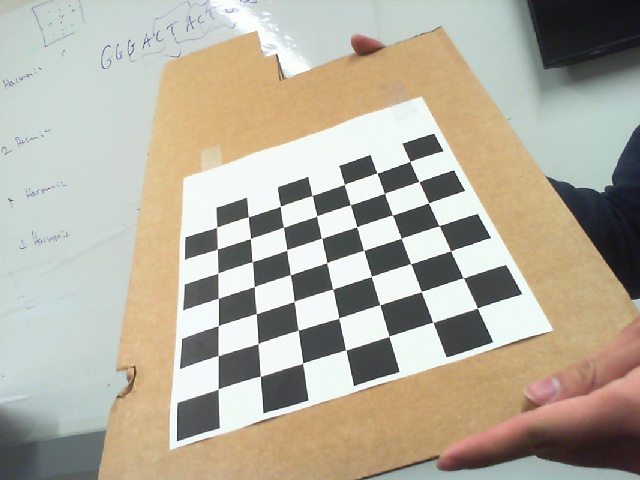
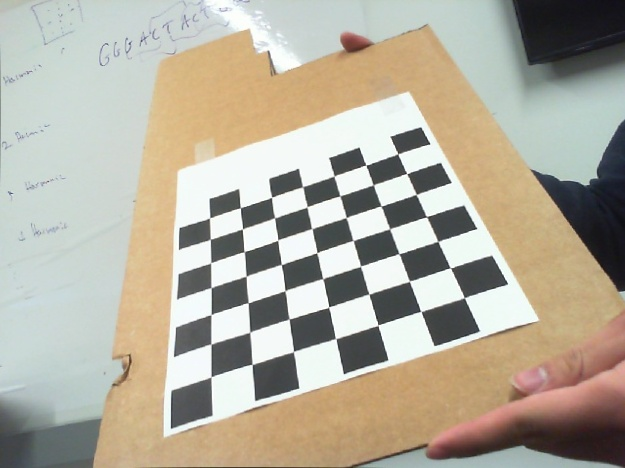
added working solvepnp sample

diff --git a/src/main/python/cv_utils/samples/calibration/calibrateCamera.py b/src/main/python/cv_utils/samples/calibration/calibrateCamera.py
@@ -3,6 +3,15 @@ import glob
 import cv2 as cv
 import numpy as np
 
+
+def draw(img, corners, imgpts):
+    corner = tuple(corners[0].ravel())
+    img = cv.line(img, corner, tuple(imgpts[0].ravel()), (255, 0, 0), 5)
+    img = cv.line(img, corner, tuple(imgpts[1].ravel()), (0, 255, 0), 5)
+    img = cv.line(img, corner, tuple(imgpts[2].ravel()), (0, 0, 255), 5)
+    return img
+
+
 # termination criteria
 criteria = (cv.TERM_CRITERIA_EPS + cv.TERM_CRITERIA_MAX_ITER, 30, 0.001)
 
@@ -13,6 +22,9 @@ objp[:, :2] = np.mgrid[0:7, 0:6].T.reshape(-1, 2)
 # Arrays to store object points and image points from all the images.
 objpoints = []  # 3d point in real world space
 imgpoints = []  # 2d points in image plane.
+
+axis = np.float32([[3, 0, 0], [0, 3, 0], [0, 0, -3]]).reshape(-1, 3)
+
 images = glob.glob('./pictures/original/*.jpg')
 
 counter = 0
@@ -20,43 +32,26 @@ counter = 0
 for fname in images:
     img = cv.imread(fname)
     gray = cv.cvtColor(img, cv.COLOR_BGR2GRAY)
-
-    # Find the chess board corners
     ret, corners = cv.findChessboardCorners(gray, (7, 6), None)
-
-    # If found, add object points, image points (after refining them)
     if ret:
         objpoints.append(objp)
         corners2 = cv.cornerSubPix(gray, corners, (11, 11), (-1, -1), criteria)
         imgpoints.append(corners)
 
-        # Draw and display the corners
-        cv.drawChessboardCorners(img, (7, 6), corners2, ret)
-        cv.imshow('img', img)
-        cv.waitKey(0)
-
-cv.destroyAllWindows()
-
-# np.savez("webcam_calibration_ouput", ret=ret, mtx=mtx, dist=dist, rvecs=rvecs, tvecs=tvecs)
+ret, mtx, dist, rvecs, tvecs = cv.calibrateCamera(objpoints, imgpoints, gray.shape[::-1], None, None)
+np.savez("calibration_matrix", ret=ret, mtx=mtx, dist=dist, rvecs=rvecs, tvecs=tvecs)
 
 for fname in images:
     orig_img = cv.imread(fname)
     gray = cv.cvtColor(orig_img, cv.COLOR_BGR2GRAY)
-    ret, mtx, dist, rvecs, tvecs = cv.calibrateCamera(objpoints, imgpoints, gray.shape[::-1], None, None)
 
     h, w, channel = orig_img.shape
     newcameramtx, roi = cv.getOptimalNewCameraMatrix(mtx, dist, (w, h), 1, (w, h))
 
-    # undistort
     dst = cv.undistort(orig_img, mtx, dist, None, newcameramtx)
-    # crop the image
     x, y, w, h = roi
     dst = dst[y:y + h, x:x + w]
 
-    cv.imwrite("{0}.jpg".format(counter), dst)
-    counter += 1
-
-    # cv.circle(orig_img, (int(w/2), int(h/2)), 7, (0, 255, 0), -1)
 
     while True:
         cv.imshow("orig", orig_img)
@@ -65,3 +60,27 @@ for fname in images:
             break
 
 cv.destroyAllWindows()
+
+"""
+for fname in glob.glob('left*.jpg'):
+    img = cv2.imread(fname)
+    gray = cv2.cvtColor(img,cv2.COLOR_BGR2GRAY)
+    ret, corners = cv2.findChessboardCorners(gray, (7,6),None)
+
+    if ret == True:
+        corners2 = cv2.cornerSubPix(gray,corners,(11,11),(-1,-1),criteria)
+
+        # Find the rotation and translation vectors.
+        rvecs, tvecs, inliers = cv2.solvePnPRansac(objp, corners2, mtx, dist)
+
+        # project 3D points to image plane
+        imgpts, jac = cv2.projectPoints(axis, rvecs, tvecs, mtx, dist)
+
+        img = draw(img,corners2,imgpts)
+        cv2.imshow('img',img)
+        k = cv2.waitKey(0) & 0xff
+        if k == 's':
+            cv2.imwrite(fname[:6]+'.png', img)
+
+cv2.destroyAllWindows()
+"""

diff --git a/src/main/python/cv_utils/samples/calibration/cubeRender.py b/src/main/python/cv_utils/samples/calibration/cubeRender.py
@@ -1,0 +1,81 @@
+import glob
+
+import cv2 as cv
+import numpy as np
+
+
+def draw(img, corners, imgpts):
+    imgpts = np.int32(imgpts).reshape(-1, 2)
+    # draw ground floor in green
+    img = cv.drawContours(img, [imgpts[:4]], -1, (0, 255, 0), -3)
+    # draw pillars in blue color
+    for i, j in zip(range(4), range(4, 8)):
+        img = cv.line(img, tuple(imgpts[i]), tuple(imgpts[j]), (255), 3)
+    # draw top layer in red color
+    img = cv.drawContours(img, [imgpts[4:]], -1, (0, 0, 255), 3)
+
+    return img
+
+
+# termination criteria
+criteria = (cv.TERM_CRITERIA_EPS + cv.TERM_CRITERIA_MAX_ITER, 30, 0.001)
+
+# prepare object points, like (0,0,0), (1,0,0), (2,0,0) ....,(6,5,0)
+objp = np.zeros((6 * 7, 3), np.float32)
+objp[:, :2] = np.mgrid[0:7, 0:6].T.reshape(-1, 2)
+
+# Arrays to store object points and image points from all the images.
+objpoints = []  # 3d point in real world space
+imgpoints = []  # 2d points in image plane.
+
+axis = np.float32([[0, 0, 0], [0, 3, 0], [3, 3, 0], [3, 0, 0], [0, 0, -3], [0, 3, -3], [3, 3, -3], [3, 0, -3]])
+
+images = glob.glob('./pictures/original/*.jpg')
+
+counter = 0
+
+for fname in images:
+    img = cv.imread(fname)
+    gray = cv.cvtColor(img, cv.COLOR_BGR2GRAY)
+    ret, corners = cv.findChessboardCorners(gray, (7, 6), None)
+    if ret:
+        objpoints.append(objp)
+        corners2 = cv.cornerSubPix(gray, corners, (11, 11), (-1, -1), criteria)
+        imgpoints.append(corners)
+
+ret, mtx, dist, rvecs, tvecs = cv.calibrateCamera(objpoints, imgpoints, gray.shape[::-1], None, None)
+np.savez("calibration_matrix", ret=ret, mtx=mtx, dist=dist, rvecs=rvecs, tvecs=tvecs)
+
+# Load previously saved data
+with np.load('calibration_matrix.npz') as X:
+    mtx, dist, _, _ = [X[i] for i in ('mtx', 'dist', 'rvecs', 'tvecs')]
+
+for fname in images:
+    orig_img = cv.imread(fname)
+    gray = cv.cvtColor(orig_img, cv.COLOR_BGR2GRAY)
+    ret, corners = cv.findChessboardCorners(gray, (7, 6), None)
+
+    if ret:
+        # optimiziation and undistortion
+        h, w, channel = orig_img.shape
+        newcameramtx, roi = cv.getOptimalNewCameraMatrix(mtx, dist, (w, h), 1, (w, h))
+        dst = cv.undistort(orig_img, mtx, dist, None, newcameramtx)
+        x, y, w, h = roi
+        dst = dst[y:y + h, x:x + w]
+
+        # Find the rotation and translation vectors.
+        corners2 = cv.cornerSubPix(gray, corners, (11, 11), (-1, -1), criteria)
+        ex, rvecs, tvecs, inliers = cv.solvePnPRansac(objp, corners2, mtx, dist)
+        # project 3D points to image plane
+        imgpts, jac = cv.projectPoints(axis, rvecs, tvecs, mtx, dist)
+
+        # draw directions
+        dst = draw(dst, corners2, imgpts)
+
+        while True:
+            cv.imshow("orig", orig_img)
+            cv.imshow("res", dst)
+            if cv.waitKey(1) & 0xFF == ord('q'):
+                break
+
+cv.destroyAllWindows()

diff --git a/src/main/python/cv_utils/samples/calibration/calibratePreview.py b/src/main/python/cv_utils/samples/calibration/calibratePreview.py
@@ -1,18 +1,9 @@
 import glob
 
 import cv2 as cv
-import numpy as np
 
 # termination criteria
 criteria = (cv.TERM_CRITERIA_EPS + cv.TERM_CRITERIA_MAX_ITER, 30, 0.001)
-
-# prepare object points, like (0,0,0), (1,0,0), (2,0,0) ....,(6,5,0)
-objp = np.zeros((6 * 7, 3), np.float32)
-objp[:, :2] = np.mgrid[0:7, 0:6].T.reshape(-1, 2)
-
-# Arrays to store object points and image points from all the images.
-objpoints = []  # 3d point in real world space
-imgpoints = []  # 2d points in image plane.
 images = glob.glob('*.jpg')
 
 counter = 0
@@ -27,9 +18,7 @@ for fname in images:
     # If found, add object points, image points (after refining them)
     if ret:
         counter += 1
-        objpoints.append(objp)
         corners2 = cv.cornerSubPix(gray, corners, (11, 11), (-1, -1), criteria)
-        imgpoints.append(corners)
 
         # Draw and display the corners
         cv.drawChessboardCorners(img, (7, 6), corners2, ret)
